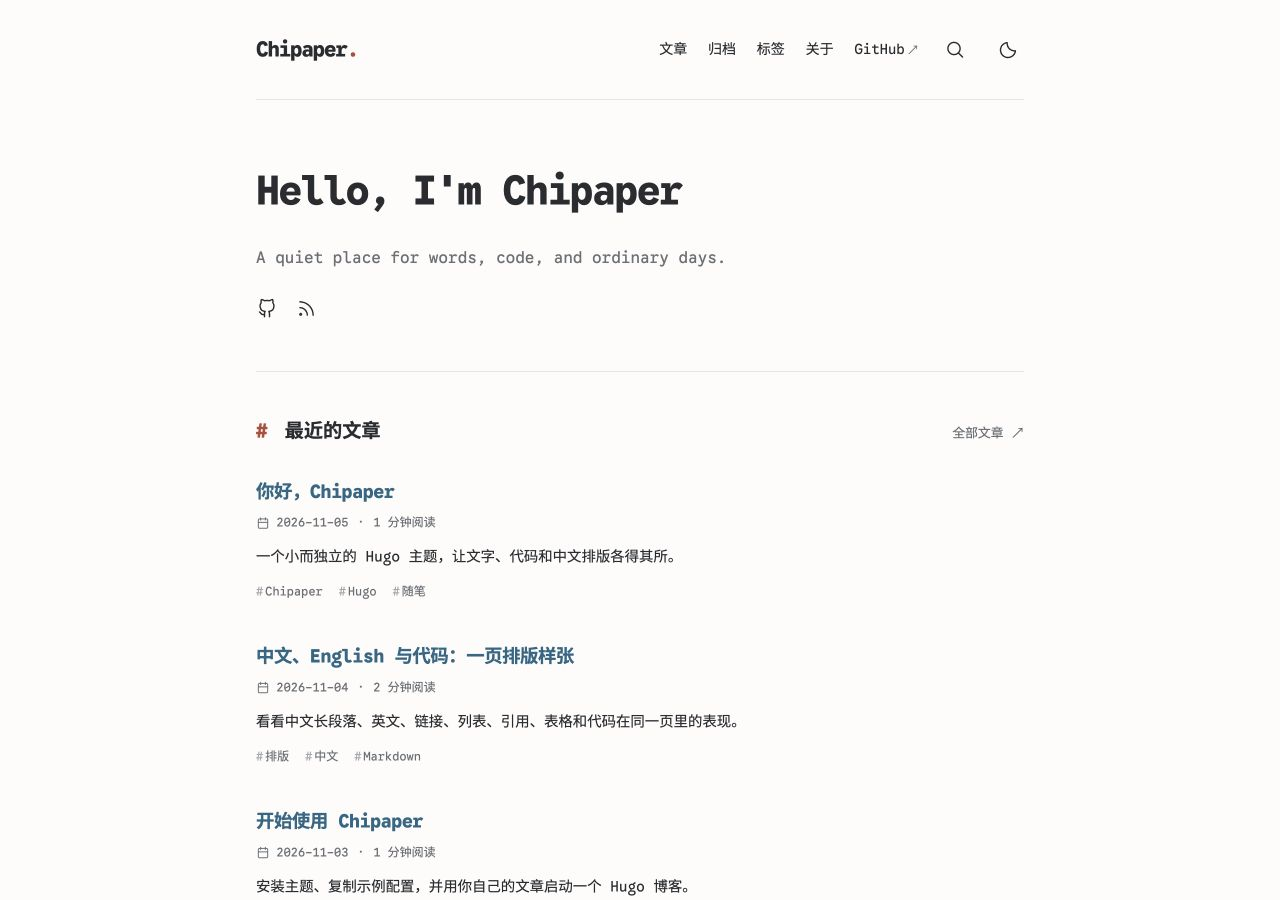
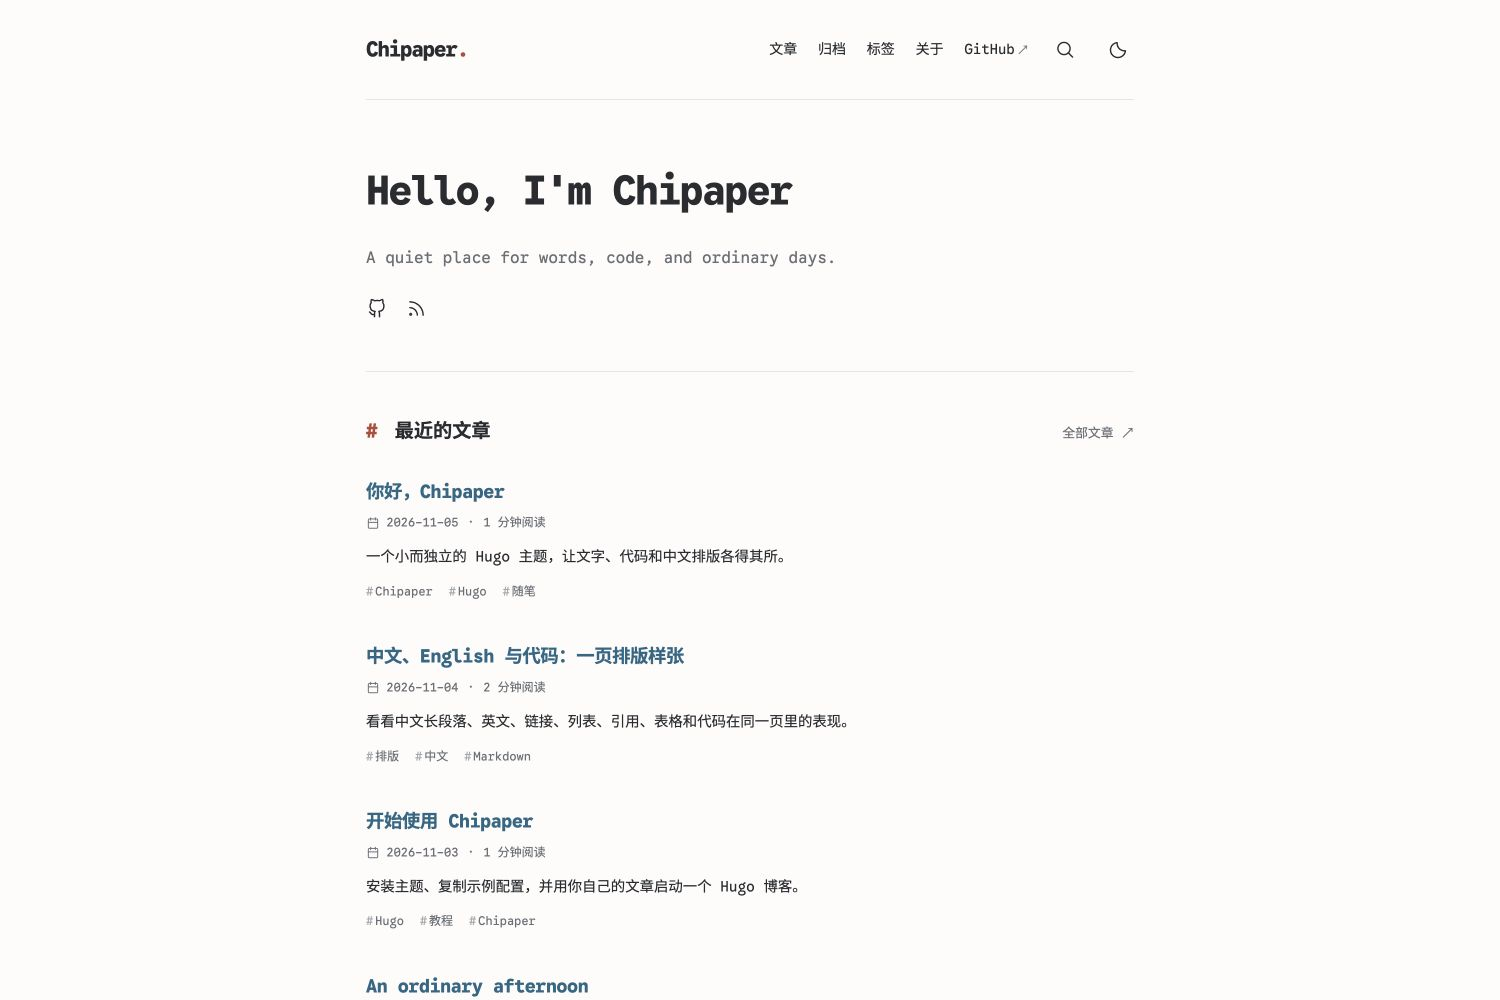
feat: make tags optional and prepare theme catalog assets

diff --git a/layouts/page.html b/layouts/page.html
@@ -1,16 +1,17 @@
 {{ define "main" }}
 <article class="single-post">
-  <div class="breadcrumbs"><a href="{{ if eq .Section "posts" }}{{ "posts/" | relURL }}{{ else }}{{ .Site.Home.RelPermalink }}{{ end }}">{{ if eq .Section "posts" }}文章{{ else }}首页{{ end }}</a><span aria-hidden="true">/</span><span>{{ .Title }}</span></div>
+  {{ $isArticle := in .Site.MainSections .Section }}
+  <div class="breadcrumbs"><a href="{{ if $isArticle }}{{ partial "paper/post-section-url.html" . }}{{ else }}{{ .Site.Home.RelPermalink }}{{ end }}">{{ if $isArticle }}文章{{ else }}首页{{ end }}</a><span aria-hidden="true">/</span><span>{{ .Title }}</span></div>
   <header class="post-header">
     <h1>{{ .Title }}</h1>
-    {{ if eq .Section "posts" }}{{ partial "paper/post-meta.html" . }}{{ end }}
-    {{ with .GetTerms "tags" }}<ul class="post-tags" aria-label="标签">{{ range . }}<li><a href="{{ .RelPermalink }}"><span aria-hidden="true">#</span>{{ .LinkTitle }}</a></li>{{ end }}</ul>{{ end }}
+    {{ if $isArticle }}{{ partial "paper/post-meta.html" . }}{{ end }}
+    {{ if ne .Site.Params.chipaper.showTags false }}{{ with .GetTerms "tags" }}<ul class="post-tags" aria-label="标签">{{ range . }}<li><a href="{{ .RelPermalink }}"><span aria-hidden="true">#</span>{{ .LinkTitle }}</a></li>{{ end }}</ul>{{ end }}{{ end }}
   </header>
-  {{ if and (eq .Section "posts") (gt (len .Fragments.Headings) 0) }}
+  {{ if and $isArticle (gt (len .Fragments.Headings) 0) }}
     <details class="post-toc"><summary>目录 <span class="toc-hint">Table of contents</span></summary>{{ .TableOfContents }}</details>
   {{ end }}
   <div class="prose">{{ .Content }}</div>
-  {{ if eq .Section "posts" }}
+  {{ if $isArticle }}
     <footer class="post-end">
       <p class="end-mark">写到这里，下次再见<span class="accent" aria-hidden="true">.</span></p>
       <div class="post-navigation">

diff --git a/layouts/search.html b/layouts/search.html
@@ -1,5 +1,5 @@
 {{ define "main" }}
 <section class="listing-page"><header class="page-header"><p class="eyebrow">FIND SOMETHING</p><h1>搜索<span class="accent">.</span></h1></header>
-<form class="search-form" role="search"><label for="search-input">搜一搜文章、标签或正文</label><div class="search-field">{{ partial "paper/icon.html" "search" }}<input type="search" id="search-input" name="q" autocomplete="off" placeholder="比如：HomeLab、功耗、Linux" data-index="{{ "index.json" | relURL }}"></div></form>
-<p id="search-status" class="muted" role="status" aria-live="polite">输入关键词开始搜索。</p><ul class="post-list" id="search-results"></ul><noscript><p>搜索需要 JavaScript，也可以浏览<a href="{{ "archives/" | relURL }}">文章归档</a>。</p></noscript></section>
+<form class="search-form" role="search"><label for="search-input">{{ if ne .Site.Params.chipaper.showTags false }}搜一搜文章、标签或正文{{ else }}搜一搜文章或正文{{ end }}</label><div class="search-field">{{ partial "paper/icon.html" "search" }}<input type="search" id="search-input" name="q" autocomplete="off" placeholder="比如：HomeLab、功耗、Linux" data-index="{{ "index.json" | relURL }}"></div></form>
+<p id="search-status" class="muted" role="status" aria-live="polite">输入关键词开始搜索。</p><ul class="post-list" id="search-results"></ul><noscript><p>搜索需要 JavaScript，也可以浏览<a href="{{ partial "paper/post-section-url.html" . }}">文章列表</a>。</p></noscript></section>
 {{ end }}

diff --git a/layouts/partials/paper/post-list.html b/layouts/partials/paper/post-list.html
@@ -6,7 +6,7 @@
         {{ partial "paper/post-meta.html" . }}
         {{ $paragraph := index (findRE "(?s)<p>.*?</p>" .Content 1 | default (slice .Plain)) 0 }}
         <p class="post-summary">{{ .Description | default ($paragraph | plainify | htmlUnescape | truncate 105) }}</p>
-        {{ with .GetTerms "tags" }}<ul class="post-tags" aria-label="标签">{{ range . }}<li><a href="{{ .RelPermalink }}"><span aria-hidden="true">#</span>{{ .LinkTitle }}</a></li>{{ end }}</ul>{{ end }}
+        {{ if ne site.Params.chipaper.showTags false }}{{ with .GetTerms "tags" }}<ul class="post-tags" aria-label="标签">{{ range . }}<li><a href="{{ .RelPermalink }}"><span aria-hidden="true">#</span>{{ .LinkTitle }}</a></li>{{ end }}</ul>{{ end }}{{ end }}
       </article>
     </li>
   {{ end }}

diff --git a/layouts/home.html b/layouts/home.html
@@ -7,9 +7,9 @@
 <section class="recent-posts" aria-labelledby="recent-title">
   <div class="section-heading">
     <h2 id="recent-title"><span class="heading-mark" aria-hidden="true">#</span> 最近的文章</h2>
-    <a class="small-link" href="{{ "posts/" | relURL }}">全部文章 <span aria-hidden="true">↗</span></a>
+    <a class="small-link" href="{{ partial "paper/post-section-url.html" . }}">全部文章 <span aria-hidden="true">↗</span></a>
   </div>
-  {{ $posts := where .Site.RegularPages "Section" "posts" }}
+  {{ $posts := where .Site.RegularPages "Section" "in" .Site.MainSections }}
   {{ partial "paper/post-list.html" ($posts.ByDate.Reverse | first (.Site.Params.chipaper.recentCount | default 7)) }}
 </section>
 {{ end }}

diff --git a/layouts/archives.html b/layouts/archives.html
@@ -1,6 +1,6 @@
 {{ define "main" }}
 <section class="listing-page"><header class="page-header"><p class="eyebrow">ARCHIVE</p><h1>归档<span class="accent">.</span></h1></header>
-{{ range (where .Site.RegularPages "Section" "posts").GroupByDate "2006" }}
+{{ range (where .Site.RegularPages "Section" "in" .Site.MainSections).GroupByDate "2006" }}
 <section class="archive-year"><h2><span class="heading-mark" aria-hidden="true">#</span> {{ .Key }} <small>{{ len .Pages }} 篇</small></h2><ul>{{ range .Pages }}<li><time datetime="{{ .Date.Format "2006-01-02" }}">{{ .Date.Format "01-02" }}</time><a href="{{ .RelPermalink }}">{{ .Title }}</a></li>{{ end }}</ul></section>
 {{ end }}</section>
 {{ end }}

diff --git a/layouts/partials/paper/head.html b/layouts/partials/paper/head.html
@@ -10,7 +10,7 @@
 <meta property="og:title" content="{{ .Title | default .Site.Title }}">
 <meta property="og:description" content="{{ $description }}">
 <meta property="og:url" content="{{ .Permalink }}">
-<meta property="og:type" content="{{ if and .IsPage (eq .Section "posts") }}article{{ else }}website{{ end }}">
+<meta property="og:type" content="{{ if and .IsPage (in .Site.MainSections .Section) }}article{{ else }}website{{ end }}">
 <meta property="og:locale" content="{{ .Site.Language.Locale | replaceRE "-" "_" }}">
 {{ with .Site.Params.defaultSocialImage }}
   {{ $image := . | absURL }}

diff --git a/layouts/partials/paper/post-section-url.html b/layouts/partials/paper/post-section-url.html
@@ -1,0 +1,7 @@
+{{- $sections := site.MainSections | default (slice "posts") -}}
+{{- $name := index $sections 0 -}}
+{{- $url := printf "%s/" $name | relURL -}}
+{{- with site.GetPage $name -}}
+  {{- $url = .RelPermalink -}}
+{{- end -}}
+{{- return $url -}}

diff --git a/README.md b/README.md
@@ -2,9 +2,9 @@
 
 一个简洁、独立、重视中英混排的 Hugo 博客主题。灵感来自 [AstroPaper](https://github.com/satnaing/astro-paper) 与 [Archie](https://github.com/athul/archie)。
 
-[在线 Demo](https://chius-me.github.io/chipaper/) · [实际站点](https://chius.cc/) · [English](README.en.md)
+[在线 Demo](https://chius-me.github.io/chipaper/) · [实际站点](https://chius.cc/) · [English](https://github.com/chius-me/chipaper/blob/main/README.en.md)
 
-![Chipaper 首页](images/screenshot.jpg)
+![Chipaper 首页](https://raw.githubusercontent.com/chius-me/chipaper/main/images/screenshot.jpg)
 
 ## 特点
 
@@ -98,7 +98,7 @@ enableRobotsTXT = true
   weight = 40
 ```
 
-完整配置见 [`exampleSite/hugo.toml`](exampleSite/hugo.toml)。其中 `themesDir = "../.."` 仅用于这个仓库内的 Demo，普通博客不要复制该项。
+完整配置见 [`exampleSite/hugo.toml`](https://github.com/chius-me/chipaper/blob/main/exampleSite/hugo.toml)。其中 `themesDir = "../.."` 仅用于这个仓库内的 Demo，普通博客不要复制该项。
 
 准备这些页面：
 
@@ -110,7 +110,7 @@ enableRobotsTXT = true
 | `content/search.md` | `title: 搜索`，`layout: search` |
 | `content/about.md` | `title: 关于` |
 
-可直接参考或复制 [`exampleSite/content/`](exampleSite/content/)。搜索页即使不在菜单中，也会从导航的放大镜入口访问；需要首页的 JSON 输出才能工作。
+可直接参考或复制 [`exampleSite/content/`](https://github.com/chius-me/chipaper/tree/main/exampleSite/content/)。搜索页即使不在菜单中，也会从导航的放大镜入口访问；需要首页的 JSON 输出才能工作。
 
 把自己的 `favicon.svg` 与可选的 `apple-touch-icon.png` 放入站点的 `static/`。Demo 提供了 SVG favicon。
 
@@ -146,9 +146,25 @@ hugo --minify
 | `params.chipaper.motto` | 首页座右铭；兼容 `params.author.headline` |
 | `params.chipaper.recentCount` | 首页文章数，默认 7 |
 | `params.chipaper.showRSS` | 显示 RSS 图标，默认 `true` |
+| `params.chipaper.showTags` | 显示文章标签并将标签纳入搜索，默认 `true` |
 | `params.chipaper.comments` | 启用 Giscus，默认关闭 |
 | `params.defaultSocialImage` | 可选分享图片；支持 `assets/` 内资源或静态 / 绝对 URL |
 | `params.social` | 社交链接数组：`name`、`icon`、`url` |
+
+主题使用 Hugo 的 `mainSections` 识别文章栏目，未指定时由 Hugo 选择文章最多的栏目。可在站点配置根部设置 `mainSections = ["posts"]`，也支持 `post`、`notes` 等不同目录。
+
+### 不使用标签或归档
+
+标签和归档均为可选能力。要完全关闭站点的标签系统，在站点配置中设置：
+
+```toml
+disableKinds = ["taxonomy", "term"]
+
+[params.chipaper]
+  showTags = false
+```
+
+随后移除标签与归档菜单，以及站点的 `content/tags/_index.md`、`content/archives.md`。搜索的无 JavaScript 回退指向文章列表，不依赖归档页。主题自身及 Demo 继续保留标签、归档能力。
 
 社交图标支持 `github`、`mail`、`rss`，其他名字显示通用链接图标。图标链接的 `name` 同时用于无障碍标签。
 
@@ -196,11 +212,11 @@ html[data-theme="dark"] { --accent: #eab38b; }
 uv run scripts/build-fonts.py
 ```
 
-脚本使用隔离环境，不安装系统字体；Sarasa 版本固定在脚本内。字体源文件下载到临时缓存，生成的字体和 CSS 随主题提交。字体许可证保存在 [`licenses/`](licenses/)。
+脚本使用隔离环境，不安装系统字体；Sarasa 版本固定在脚本内。字体源文件下载到临时缓存，生成的字体和 CSS 随主题提交。字体许可证保存在 [`licenses/`](https://github.com/chius-me/chipaper/tree/main/licenses/)。
 
 ## GitHub Pages Demo
 
-[`pages.yml`](.github/workflows/pages.yml) 在 `main` 推送时构建 `exampleSite/` 并发布 GitHub Pages，PR 只构建、不部署。Hugo 版本固定为 0.161.1。
+[`pages.yml`](https://github.com/chius-me/chipaper/blob/main/.github/workflows/pages.yml) 在 `main` 推送时构建 `exampleSite/` 并发布 GitHub Pages，PR 只构建、不部署。Hugo 版本固定为 0.161.1。
 
 Fork 仓库后，在 **Settings → Pages → Source** 选择 **GitHub Actions**，再运行工作流。工作流从 Pages 读取实际站点 URL，支持 `/<repository>/` 项目子路径。普通 Hugo 构建不需要执行字体生成脚本。
 
@@ -216,6 +232,10 @@ git commit -m "Update Chipaper"
 
 ## 许可证与致谢
 
-主题代码：[MIT](LICENSE)。字体：各自的 SIL Open Font License 1.1。
+本主题的 Hugo 模板和浏览器交互独立实现，参考 AstroPaper 与 Archie 的简洁视觉。主要特点是中文与英文混排的字体适配、自托管的 Unicode 字库分片，以及无需 Node 构建流程的实现。
 
-感谢 AstroPaper、Archie、Google Sans Code 和 Sarasa Gothic。灵感来源、源码参考与完整第三方许可见 [`THIRD_PARTY_NOTICES.md`](THIRD_PARTY_NOTICES.md)。
+主题目录收录材料与流程见 [Hugo Themes 收录准备](https://github.com/chius-me/chipaper/blob/main/docs/HUGO_THEMES_SUBMISSION.md)。
+
+主题代码：[MIT](https://github.com/chius-me/chipaper/blob/main/LICENSE)。字体：各自的 SIL Open Font License 1.1。
+
+感谢 AstroPaper、Archie、Google Sans Code 和 Sarasa Gothic。灵感来源、源码参考与完整第三方许可见 [`THIRD_PARTY_NOTICES.md`](https://github.com/chius-me/chipaper/blob/main/THIRD_PARTY_NOTICES.md)。

diff --git a/README.en.md b/README.en.md
@@ -4,9 +4,9 @@ A small, independent, Chinese-first Hugo blog theme inspired by
 [AstroPaper](https://github.com/satnaing/astro-paper) and
 [Archie](https://github.com/athul/archie).
 
-[Live demo](https://chius-me.github.io/chipaper/) · [Chius's blog](https://chius.cc/) · [中文文档](README.md)
+[Live demo](https://chius-me.github.io/chipaper/) · [Chius's blog](https://chius.cc/) · [中文文档](https://github.com/chius-me/chipaper/blob/main/README.md)
 
-![Chipaper home page](images/screenshot.jpg)
+![Chipaper home page](https://raw.githubusercontent.com/chius-me/chipaper/main/images/screenshot.jpg)
 
 Chipaper pairs **Google Sans Code** with **Sarasa Mono SC** for Latin text,
 Chinese, and code. Fonts are self-hosted and split by Unicode range. It offers
@@ -36,11 +36,11 @@ git submodule add https://github.com/chius-me/chipaper.git themes/chipaper
 
 Set `theme = "chipaper"`, enable `hasCJKLanguage`, include `JSON` in home
 outputs, and set `markup.highlight.noClasses = false`. See the complete
-[example config](exampleSite/hugo.toml). Its `themesDir = "../.."` is only
+[example config](https://github.com/chius-me/chipaper/blob/main/exampleSite/hugo.toml). Its `themesDir = "../.."` is only
 for running the repository demo; omit that option in an ordinary blog.
 
 Posts live in `content/posts/`. Copy the archive, search, about, posts index,
-and tags index pages from [`exampleSite/content`](exampleSite/content/).
+and tags index pages from [`exampleSite/content`](https://github.com/chius-me/chipaper/tree/main/exampleSite/content/).
 Article front matter supports standard Hugo fields and `description` for the
 home excerpt. Per-post `showComments: false` disables comments.
 
@@ -53,6 +53,7 @@ home excerpt. Per-post `showComments: false` disables comments.
   motto = "Write about the things you care about."
   recentCount = 7
   showRSS = true
+  showTags = true
   comments = false
 
 [[params.social]]
@@ -90,7 +91,7 @@ Hugo builds consume the committed font files directly.
 
 ## Demo deployment and updates
 
-The [Pages workflow](.github/workflows/pages.yml) builds the example site on
+The [Pages workflow](https://github.com/chius-me/chipaper/blob/main/.github/workflows/pages.yml) builds the example site on
 push/PR and deploys `main` pushes to GitHub Pages. Enable **GitHub Actions**
 as the Pages source in a fork's repository settings. The workflow gets the
 actual base URL from Pages and supports project subpaths.
@@ -100,6 +101,23 @@ preview locally, then commit the new submodule pointer in your blog.
 
 ## Credits and license
 
-Theme code is [MIT](LICENSE); fonts retain their SIL Open Font Licenses.
-See [third-party notices](THIRD_PARTY_NOTICES.md) for upstream projects,
+Chipaper implements its own Hugo templates and browser interactions while
+drawing visual inspiration from AstroPaper and Archie. Its focus is mixed
+Chinese/Latin typography, self-hosted Unicode font slices, and a Hugo build
+without a Node pipeline.
+
+Theme code is [MIT](https://github.com/chius-me/chipaper/blob/main/LICENSE); fonts retain their SIL Open Font Licenses.
+See [third-party notices](https://github.com/chius-me/chipaper/blob/main/THIRD_PARTY_NOTICES.md) for upstream projects,
 source references, and complete license files.
+
+## Optional tags and archives
+
+Set `params.chipaper.showTags = false` to hide article tags and exclude tags
+from the search index. Set root-level `disableKinds = ["taxonomy", "term"]`
+to stop generating taxonomy pages, then remove the archive/tag menu entries
+and corresponding content pages. The theme and demo retain both features.
+Search falls back to the article list when JavaScript is disabled.
+
+The theme uses Hugo `mainSections` and supports sections named `post`,
+`posts`, or other names. Set root-level `mainSections` to override automatic
+section detection.

diff --git a/docs/HUGO_THEMES_SUBMISSION.md b/docs/HUGO_THEMES_SUBMISSION.md
@@ -1,0 +1,58 @@
+# Hugo Themes 收录准备
+
+核对日期：2026-11-05。状态：已准备申请材料，尚未向官方提交 PR。
+
+当前入口是 [gohugoio/hugoThemesSiteBuilder](https://github.com/gohugoio/hugoThemesSiteBuilder)，不是已经归档的 `gohugoio/hugoThemes`。以[官方 Adding a theme 与验收规则](https://github.com/gohugoio/hugoThemesSiteBuilder#adding-a-theme)为准。
+
+## 已准备
+
+- 公开源码仓库、MIT 许可证、字体与上游参考的完整许可。
+- 根目录 `theme.toml`：名称、描述、许可证链接、源码、Demo、作者和标签。
+- 根目录 `hugo.toml`：`module.hugoVersion.min = "0.158.0"`。
+- `images/screenshot.jpg`：1500 × 1000，3:2，无浏览器边框。
+- `images/tn.jpg`：900 × 600，3:2，无浏览器边框。
+- 中文 README 与英文翻译，图片使用绝对 URL，文档链接可在目录站点访问。
+- 可访问的 GitHub Pages Demo 和完整的 `exampleSite/`。
+- Hugo 0.161.1 与目录构建配置使用的 Hugo 0.167.0 已完成构建验证。
+- `mainSections` 支持不同文章目录名；标签显示与搜索索引可单独关闭，Demo 默认保留标签和归档。
+
+## 主题特点与参考来源
+
+Chipaper 参考 AstroPaper 和 Archie 的简洁视觉。Hugo 页面模板与浏览器交互独立实现，具体参考与许可见 `THIRD_PARTY_NOTICES.md`。
+
+主要特点是面向中文与英文混排的等宽字体组合、自托管的 Unicode 字体分片、可选的标签与归档，以及无需 Node 构建流程的 Hugo 实现。收录由维护者审核决定，准备材料和通过构建并不代表已经被接受。
+
+## 提交流程
+
+1. Fork 官方 `hugoThemesSiteBuilder` 仓库。
+2. 在 `themes.txt` 中按字典序加入一行：
+
+   ```text
+   github.com/chius-me/chipaper
+   ```
+
+3. 提交改动，并向官方 `main` 分支创建 PR。
+4. 确认 Netlify deploy preview 成功；若有错误，修复主题源码，再按官方说明刷新预览。
+5. 等维护者审核合并。官方目录在每日 UTC 00:00（北京时间 08:00）定时构建完成后更新。
+
+官方会优先读取最新 release 的材料；没有 release 时读取最新提交。以后发布新素材时，应确保对应 release 包含这些素材，并保留已经发布的 Git 引用与标签。
+
+## 可用的 PR 描述草稿
+
+Title: `Add Chipaper`
+
+```text
+Add Chipaper, a minimal, Chinese-first Hugo blog theme inspired by AstroPaper and Archie.
+
+Repository: https://github.com/chius-me/chipaper
+Demo: https://chius-me.github.io/chipaper/
+License: MIT (bundled fonts retain their SIL Open Font Licenses)
+
+The theme pairs self-hosted Google Sans Code and Sarasa Mono SC, includes
+light/dark modes, search, TOC, code copying, optional tags, and archives.
+It uses Hugo templates, CSS, and vanilla JavaScript without a Node build pipeline.
+
+The repository includes theme metadata, a Hugo version declaration, bilingual
+documentation, and 3:2 screenshot/thumbnail assets. Builds were checked with
+Hugo 0.161.1 and 0.167.0.
+```
